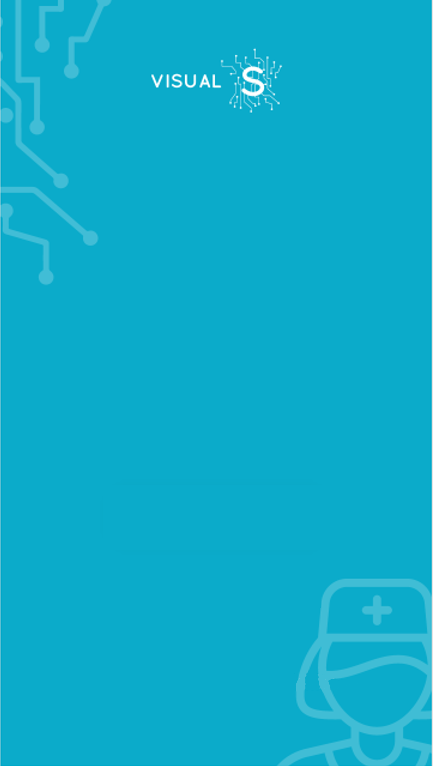
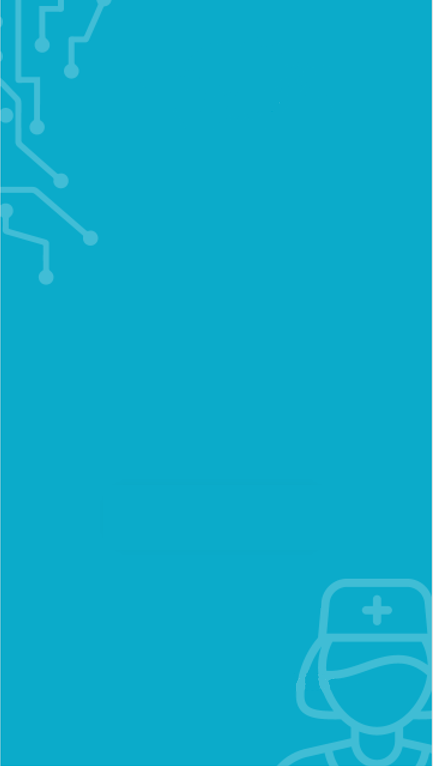
avance du projet

Changed region(s): [[0.5092, 0.0601, 0.629, 0.1501], [0.3295, 0.0901, 0.5092, 0.1201]]

diff --git a/lib/Welcome/components/body.dart b/lib/Welcome/components/body.dart
@@ -1,0 +1,42 @@
+import 'package:flutter/material.dart';
+import 'package:flutter_inscription_connexion/Welcome/components/background.dart';
+
+class Body extends StatelessWidget {
+  @override
+  Widget build(BuildContext context) {
+    Size size = MediaQuery.of(context).size;
+    // Taille en hauteur et Largeur de notre écran
+    return Backgroundd(
+      child: Column(
+        mainAxisAlignment: MainAxisAlignment.center,
+        children: [
+          Text("BIENVENUE,",
+              style: TextStyle(
+                  color: Color.fromRGBO(231, 247, 250, 1),
+                  fontWeight: FontWeight.bold,
+                  fontSize: 30)),
+          Container(
+            width: size.width * 0.5,
+            decoration: new BoxDecoration(
+              border: new Border.all(
+                color: Colors.white,
+                width: 0.8,
+              ),
+              borderRadius: new BorderRadius.circular(15.0),
+            ),
+            child: ClipRRect(
+              child: FlatButton(
+                padding: EdgeInsets.symmetric(vertical: 15, horizontal: 40),
+                onPressed: () {},
+                child: Text(
+                  "CONNEXION",
+                  style: TextStyle(color: Colors.white),
+                ),
+              ),
+            ),
+          ),
+        ],
+      ),
+    );
+  }
+}

diff --git a/lib/main.dart b/lib/main.dart
@@ -1,4 +1,6 @@
 import 'package:flutter/material.dart';
+import 'package:flutter_inscription_connexion/constants.dart';
+import 'package:flutter_inscription_connexion/Welcome/welcome_screen.dart';
 
 void main() {
   runApp(MyApp());
@@ -10,33 +12,12 @@ class MyApp extends StatelessWidget {
   Widget build(BuildContext context) {
     return MaterialApp(
       debugShowCheckedModeBanner: false,
-      title: 'Flutter Demo',
+      title: "Flutter Inscription et Connexion",
       theme: ThemeData(
-        primarySwatch: Colors.blue,
-        visualDensity: VisualDensity.adaptivePlatformDensity,
+        primaryColor: PrimaryColor,
+        scaffoldBackgroundColor: Colors.transparent,
       ),
-      home: MyHomePage(title: 'Flutter Demo Home Page'),
-    );
-  }
-}
-
-class MyHomePage extends StatefulWidget {
-  MyHomePage({Key key, this.title}) : super(key: key);
-
-  final String title;
-
-  @override
-  _MyHomePageState createState() => _MyHomePageState();
-}
-
-class _MyHomePageState extends State<MyHomePage> {
-  @override
-  Widget build(BuildContext context) {
-    return Scaffold(
-      appBar: AppBar(
-        title: Text(widget.title),
-      ),
-      body: Center(),
+      home: WelcomScreen(),
     );
   }
 }

diff --git a/lib/Welcome/components/background.dart b/lib/Welcome/components/background.dart
@@ -1,0 +1,34 @@
+import 'package:flutter/material.dart';
+
+class Backgroundd extends StatelessWidget {
+  final Widget child;
+  const Backgroundd({
+    Key key,
+    @required this.child,
+  }) : super(key: key);
+
+  @override
+  Widget build(BuildContext context) {
+    Size size = MediaQuery.of(context).size;
+    return Container(
+      height: size.height,
+      width: double.infinity,
+      decoration: BoxDecoration(
+          image: DecorationImage(
+              image: AssetImage("assets/images/fond.png"), fit: BoxFit.cover)),
+      child: Stack(
+        alignment: Alignment.center,
+        children: [
+          Positioned(
+            top: 110,
+            left: 80,
+            child: Image.asset(
+              "assets/images/logo.png",
+            ),
+          ),
+          child,
+        ],
+      ),
+    );
+  }
+}

diff --git a/lib/Welcome/welcome_screen.dart b/lib/Welcome/welcome_screen.dart
@@ -1,0 +1,9 @@
+import 'package:flutter/material.dart';
+import 'package:flutter_inscription_connexion/Welcome/components/body.dart';
+
+class WelcomScreen extends StatelessWidget {
+  @override
+  Widget build(BuildContext context) {
+    return Scaffold(body: Body());
+  }
+}

diff --git a/lib/constants.dart b/lib/constants.dart
@@ -1,0 +1,4 @@
+import "package:flutter/material.dart";
+
+const PrimaryColor = Color.fromRGBO(231, 247, 250, 1);
+const PrimaryLightColor = Color(0xFFF1E6FF);
